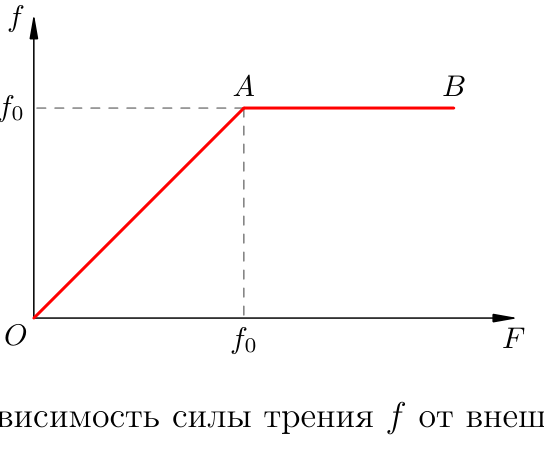
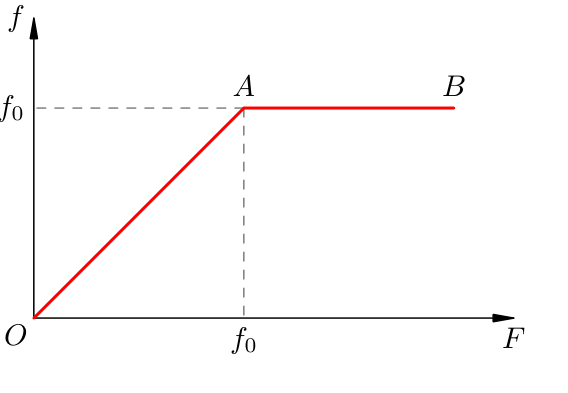
SchoolPhysic гл.1: убрать подписи и обрезанный текст с графиков, исправить поля

diff --git a/SchoolPhysic/extract_ch1.py b/SchoolPhysic/extract_ch1.py
@@ -19,6 +19,8 @@ FIGURES = [
     ("1_31_friction", 60, "Рис. 1.31"),         # friction
     ("1_39_pressure", 70, "Рис. 1.39"),         # archimedes cylinder
     ("1_51_lever", 87, "Рис. 1.51"),            # lever
+    ("1_2_kinematics", 40, "Рис. 1.15"),        # horizontal throw
+    ("1_36_hydrostatic", 67, "Рис. 1.36"),      # hydrostatic pressure
 ]
 
 
@@ -55,8 +57,10 @@ def crop_figure(name, pno, caption, margin_top=6, margin_x=10):
             keep.append(r)
     minx = min(r.x0 for r in keep) - margin_x
     miny = min(r.y0 for r in keep) - margin_top
-    maxx = max(r.x1 for r in keep) + margin_x
-    maxy = cap.y1 + 6
+    maxx = max(r.x1 for r in keep) + 18
+    # bottom bound: just above the caption so the label is not included, but keep
+    # enough room for axis labels near the bottom of the figure
+    maxy = cap.y0 - 2
     clip = pymupdf.Rect(minx, miny, maxx, maxy)
     pix = page.get_pixmap(matrix=pymupdf.Matrix(3, 3), clip=clip)
     path = os.path.join(OUT, name + ".png")

diff --git a/SchoolPhysic/01_Механика.md b/SchoolPhysic/01_Механика.md
@@ -432,7 +432,7 @@ $$F_{\text{А}} = \rho g V$$
 > **RU** На тело, погружённое в жидкость или газ, действует выталкивающая сила,
 > равная весу вытесненной жидкости: `F_A = ρgV`, где `V` — объём погружённой части.
 
-![Архимедова сила](assets/ch1/1_40_archimedes.png)
+![Архимедова сила](assets/ch1/1_39_pressure.png)
 
 - **Автор:** Архимед (Archimedes)
 - **Труд:** трактат «О плавающих телах» (On Floating Bodies).
